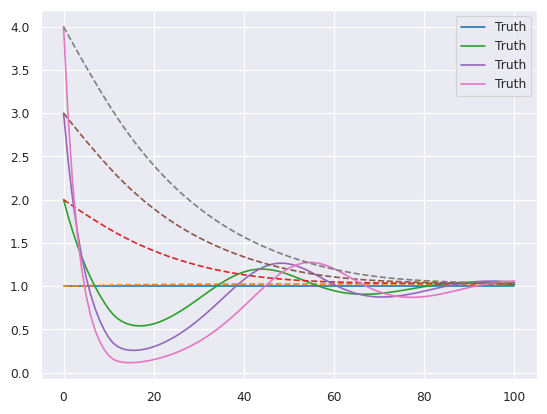
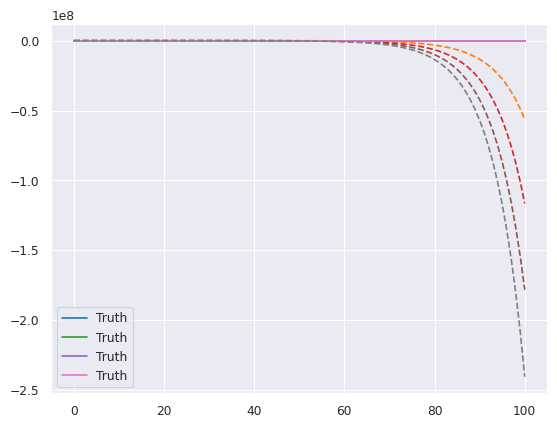
first commit learning delays

diff --git a/torchdde/ndde_adjoint.py b/torchdde/ndde_adjoint.py
@@ -172,7 +172,16 @@ class nddeint_ACA(torch.autograd.Function):
 
         T = ctx.ts[-1]
         dt = ctx.ts[1] - ctx.ts[0]
-
+        
+        # computing y'(t-tau) for the contribution of delay parameters in the loss w.r.t to the parameters
+        grad_ys = torch.gradient(ctx.ys, dim=1)[0] / dt
+        ts_history = torch.linspace(ctx.ts[0]-max(ctx.func.delays).item(), ctx.ts[0], int(max(ctx.func.delays)/dt))
+        ys_history_eval = torch.hstack([ctx.ys_history_func(t) for t in ts_history])
+        if len(ys_history_eval.shape) == 2:
+            ys_history_eval = ys_history_eval[..., None]
+        grad_ys_history_func = torch.gradient(ys_history_eval, dim=1)[0] / dt
+        grad_ys = torch.cat((grad_ys_history_func, grad_ys), dim=1)
+        
         params = ctx.saved_tensors
         state_interpolator = ctx.ys_interpolator
 
@@ -237,8 +246,14 @@ class nddeint_ACA(torch.autograd.Function):
 
                         rhs_adjoint = rhs_adjoint + rhs_adjoint_inc_k1
 
+                        # contribution of the delay parameters in the loss w.r.t. the parameters
+                        delay_idx = (ctx.ts > tau_i).nonzero()[0].item() - 1
+                        rolled_grad_ys = torch.roll(grad_ys, -delay_idx, dims=1)[:, delay_idx:]
+                        
+                        rhs_adjoint += out_other * rolled_grad_ys[:, -1-j]
+                        
                 param_derivative_inc = torch.autograd.grad(
-                    out, params, -adjoint_state, retain_graph=False
+                    out, params, -adjoint_state, retain_graph=False, allow_unused=True
                 )
 
                 if stacked_params is None:
@@ -248,7 +263,7 @@ class nddeint_ACA(torch.autograd.Function):
                 else:
                     stacked_params = tuple(
                         [
-                            torch.concat([_1, torch.unsqueeze(_2, dim=-1)], dim=-1)
+                            torch.concat([_1, torch.unsqueeze(_2, dim=-1)], dim=-1) if _2 is not None else _1
                             for _1, _2 in zip(stacked_params, param_derivative_inc)
                         ]
                     )

diff --git a/ndde.py b/ndde.py
@@ -46,7 +46,8 @@ for i in range(ys.shape[0]):
 plt.pause(2)
 plt.close()
 
-model = NDDE(history_values.shape[-1], list_delays)
+learnable_delays = torch.tensor([0.5])
+model = NDDE(history_values.shape[-1], learnable_delays)
 model = model.to(device)
 lossfunc = nn.MSELoss()
 opt = torch.optim.Adam(model.parameters(), lr=3e-3, weight_decay=0)
@@ -60,14 +61,14 @@ for i in range(max_epoch):
     loss = lossfunc(ret, ys)
     loss.backward()
     opt.step()
-    if i % 50 == 0:
+    if i % 15 == 0:
         for i in range(ys.shape[0]):
             plt.plot(ys[i].cpu().detach().numpy(), label="Truth")
             plt.plot(ret[i].cpu().detach().numpy(), "--")
         plt.legend()
         plt.savefig("last_res.png", bbox_inches="tight", dpi=100)
         plt.close()
-    print("Epoch : {:4d}, Loss : {:.3e}".format(i, loss.item()))
+    print("Epoch : {:4d}, Loss : {:.3e}, tau : {}".format(i, loss.item(), model.delays.item()))
 
     losses.append(loss.item())
 

diff --git a/model.py b/model.py
@@ -3,10 +3,10 @@ import torch.nn as nn
 
 
 class NDDE(nn.Module):
-    def __init__(self, dim, list_delays, width=64):
+    def __init__(self, dim, delays, width=64):
         super().__init__()
-        self.in_dim = dim * (1 + len(list_delays))
-        self.delays = list_delays
+        self.in_dim = dim * (1 + len(delays))
+        self.delays = torch.nn.Parameter(delays)
         self.mlp = nn.Sequential(
             nn.Linear(self.in_dim, width),
             nn.ReLU(),
